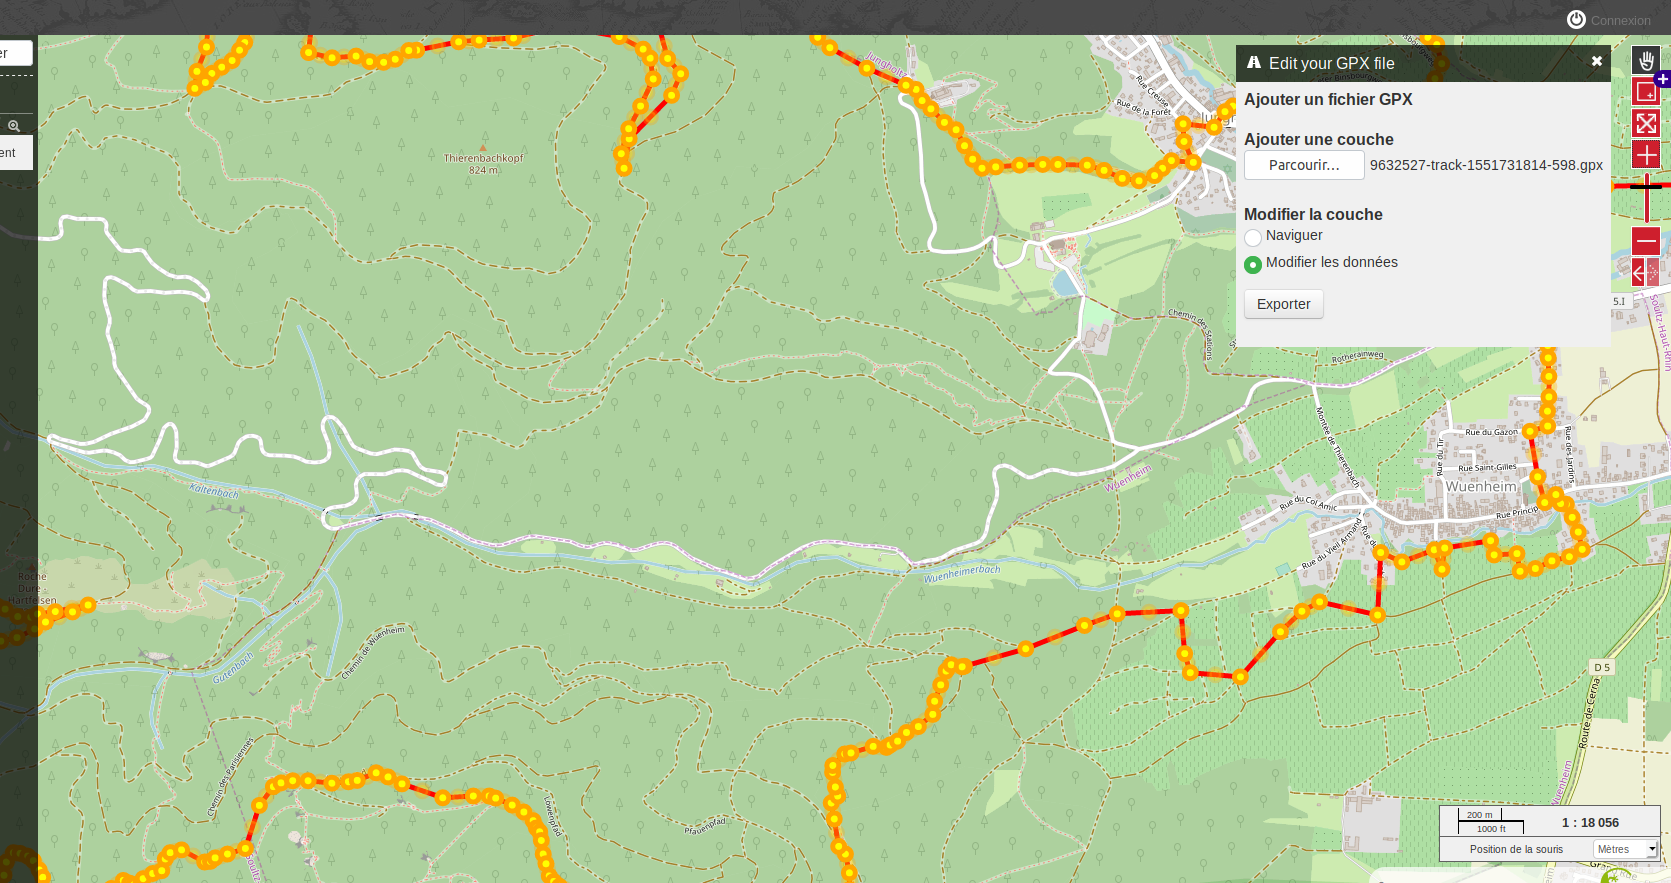
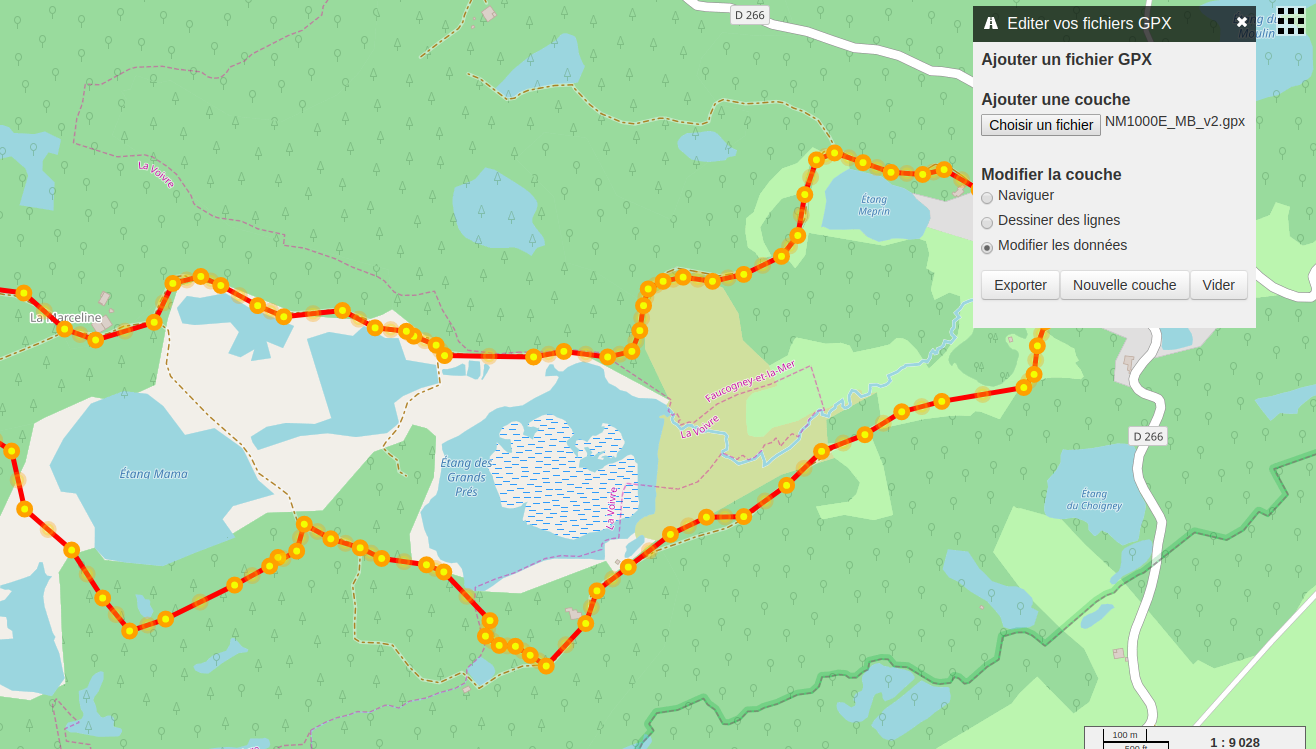
update screenshot for readme

diff --git a/edit_gpx/Readme.md b/edit_gpx/Readme.md
@@ -12,3 +12,6 @@ Puis il est possible de le modifier en cochant "Modifier les données".
 Après ça on clique sur la donnée à modifier.
 
 ![editgpx](editgpx.png)
+
+Il est aussi possible de dessiner des lignes créer des couches vides
+et de vider le projet en cliquant sur les boutons dédiés.
